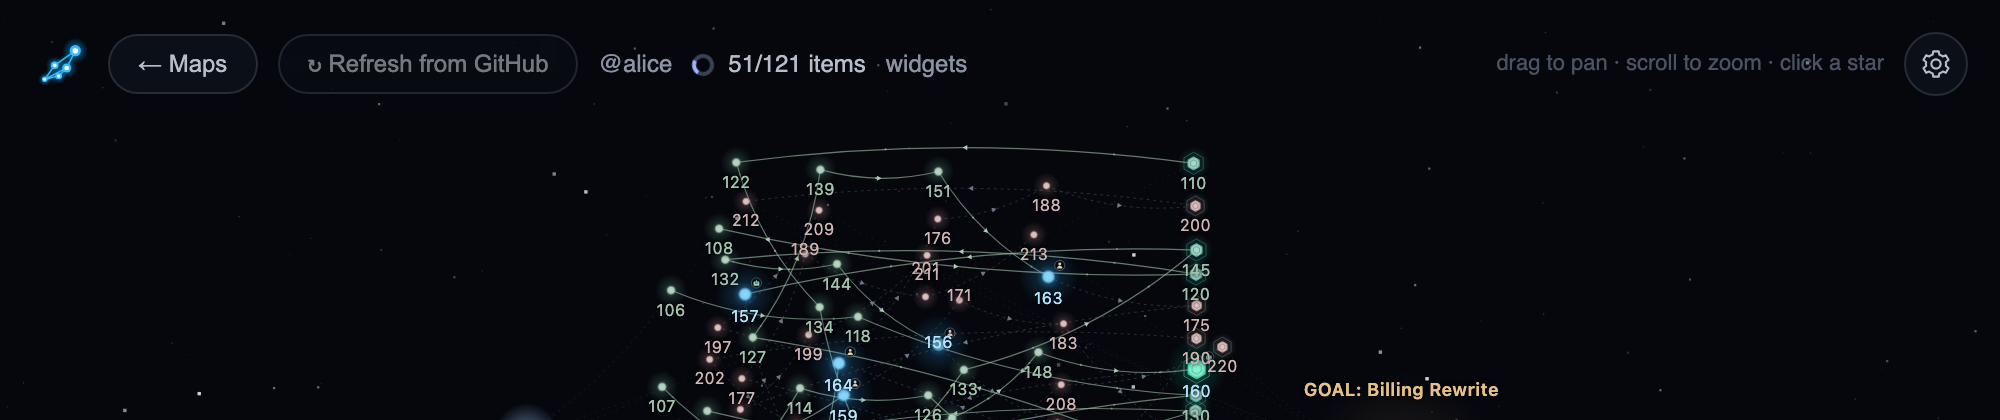
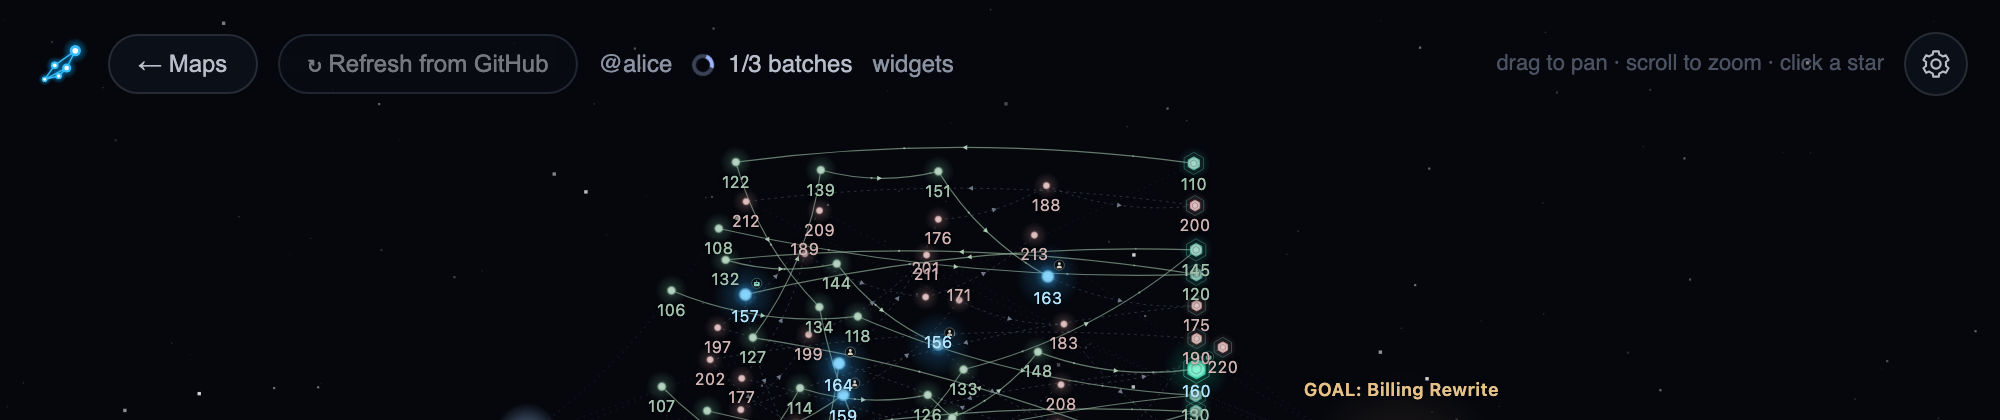
feat: count batches while the viewer pulls from GitHub
The spinner shows batch/batches; the finished message still counts items. The CLI is unchanged.

diff --git a/cmd/wayfinder-maps/web/js/screens.js b/cmd/wayfinder-maps/web/js/screens.js
@@ -98,7 +98,7 @@ export function pullFromGithub() {
   var failed = false, finished = false, total = 0;
   btn.disabled = true; setPullStat("run", progressText(0, 0));
   var onEvent = function(ev) {
-    if (ev.event === "progress") { total = ev.data.total; if (live()) setPullStat("run", progressText(ev.data.done, ev.data.total)); }
+    if (ev.event === "progress") { total = ev.data.total; if (live()) setPullStat("run", progressText(ev.data.batch, ev.data.batches)); }
     else if (ev.event === "error") { failed = true; if (live()) setPullStat("err", errText(ev.data.message)); }
     else if (ev.event === "done") finished = true;
   };

diff --git a/cmd/wayfinder-maps/web/js/ghpicker.js b/cmd/wayfinder-maps/web/js/ghpicker.js
@@ -155,7 +155,7 @@ function pull(m, ids) {
   return fetch(url, {method: "POST", headers: H.headers}).then(function(r) {
     if (!r.ok) return r.text().then(function(t) { throw new Error(t.trim()); });
     return readEvents(r, function(ev) {
-      if (ev.event === "progress") setStat("run", progressText(ev.data.done, ev.data.total));
+      if (ev.event === "progress") setStat("run", progressText(ev.data.batch, ev.data.batches));
       else if (ev.event === "error") { failed = true; setStat("err", (ev.data.message || "Pull failed")); }
       else if (ev.event === "done") path = ev.data.path;
     });

diff --git a/cmd/wayfinder-maps/web/js/sse.js b/cmd/wayfinder-maps/web/js/sse.js
@@ -14,9 +14,9 @@ export function parseSSE(buf) {
   return {events: events, rest: rest};
 }
 
-// progressText renders "N/M items"; a zero total means not known yet.
-export function progressText(done, total) {
-  return total > 0 ? done + "/" + total + " items" : "starting…";
+// progressText renders "N/M batches"; a zero total means not known yet.
+export function progressText(batch, batches) {
+  return batches > 0 ? batch + "/" + batches + " batches" : "starting…";
 }
 
 // readEvents pumps a fetch Response body through parseSSE, calling onEvent per

diff --git a/internal/ghpull/ghpull.go b/internal/ghpull/ghpull.go
@@ -71,6 +71,15 @@ func userErr(format string, a ...any) error {
 	return &Error{Code: 2, Msg: fmt.Sprintf(format, a...)}
 }
 
+// Step is how far a pull has come, in mirrored items and fetched batches. Both
+// totals move: they are 1 until the first batch is in.
+type Step struct {
+	Done    int `json:"done"`
+	Total   int `json:"total"`
+	Batch   int `json:"batch"`
+	Batches int `json:"batches"`
+}
+
 // Options selects what to pull. With Refresh, only Out is read and the rest
 // comes from <Out>/.source.json.
 type Options struct {
@@ -81,9 +90,8 @@ type Options struct {
 	// Account pulls as this gh account and records it in .source.json. Empty
 	// keeps the recorded account, then $WAYFINDER_GH_ACCOUNT, then the active one.
 	Account string
-	// Progress, if set, gets (done, total) items once per batch. The total
-	// moves: it is 1 until the first batch is in.
-	Progress func(done, total int)
+	// Progress, if set, is called at the start and once per batch.
+	Progress func(Step)
 }
 
 // Puller holds the injectable pieces: the gh runner, the environment, and the
@@ -310,7 +318,7 @@ func (p *Puller) pull(o Options, who *string) error {
 	var auth, account, token string
 	progress := o.Progress
 	if progress == nil {
-		progress = func(int, int) {}
+		progress = func(Step) {}
 	}
 	if o.Refresh {
 		src, ok := ReadSource(out)
@@ -356,7 +364,7 @@ func (p *Puller) pull(o Options, who *string) error {
 		*who = fmt.Sprintf("gh account '%s'", account)
 	}
 
-	progress(0, 1)
+	progress(Step{Total: 1, Batches: 1})
 	m, err := p.fetchMap(token, repo, mapNum, "")
 	if err != nil {
 		return err
@@ -387,7 +395,7 @@ func (p *Puller) pull(o Options, who *string) error {
 	var rewrites []*regexp.Regexp
 	var rewriteTo []string
 	count := 0
-	for page := m; ; {
+	for page, batch := m, 1; ; batch++ {
 		for _, t := range page.SubIssues.Nodes {
 			if err := p.complete(token, repo, &t); err != nil {
 				return err
@@ -403,10 +411,11 @@ func (p *Puller) pull(o Options, who *string) error {
 		}
 		next := page.SubIssues.PageInfo
 		if !next.HasNextPage {
-			progress(count+1, count+1)
+			progress(Step{Done: count + 1, Total: count + 1, Batch: batch, Batches: batch})
 			break
 		}
-		progress(count+1, max(page.SubIssues.TotalCount, count+1)+1)
+		progress(Step{Done: count + 1, Total: max(page.SubIssues.TotalCount, count+1) + 1,
+			Batch: batch, Batches: max((page.SubIssues.TotalCount+ticketBatch-1)/ticketBatch, batch+1)})
 		if page, err = p.fetchMap(token, repo, mapNum, next.EndCursor); err != nil {
 			return err
 		}

diff --git a/cmd/wayfinder-maps/github.go b/cmd/wayfinder-maps/github.go
@@ -21,7 +21,7 @@ var (
 )
 
 // runOpen pulls a map into o.Out in-process, serialised with refresh pulls.
-var runOpen = func(o ghpull.Options, progress func(done, total int)) error {
+var runOpen = func(o ghpull.Options, progress func(ghpull.Step)) error {
 	pullMu.Lock()
 	defer pullMu.Unlock()
 	o.Progress = progress
@@ -104,9 +104,9 @@ func ghError(w http.ResponseWriter, err error, account string) {
 	http.Error(w, err.Error(), code)
 }
 
-// streamSSE runs fn and streams its progress as SSE: "progress" {done,total},
-// then "done" with the data or "error" {message}.
-func streamSSE(w http.ResponseWriter, fn func(progress func(done, total int)) (any, error)) {
+// streamSSE runs fn and streams its progress as SSE: "progress" with a
+// ghpull.Step, then "done" with the data or "error" {message}.
+func streamSSE(w http.ResponseWriter, fn func(progress func(ghpull.Step)) (any, error)) {
 	fl, _ := w.(http.Flusher)
 	w.Header().Set("Content-Type", "text/event-stream")
 	w.Header().Set("Cache-Control", "no-cache")
@@ -117,8 +117,8 @@ func streamSSE(w http.ResponseWriter, fn func(progress func(done, total int)) (a
 			fl.Flush()
 		}
 	}
-	send("progress", map[string]int{"done": 0, "total": 0})
-	data, err := fn(func(done, total int) { send("progress", map[string]int{"done": done, "total": total}) })
+	send("progress", ghpull.Step{})
+	data, err := fn(func(s ghpull.Step) { send("progress", s) })
 	if err != nil {
 		send("error", map[string]string{"message": err.Error()})
 		return
@@ -227,7 +227,7 @@ func registerGitHub(mux *http.ServeMux, writeJSON func(http.ResponseWriter, any)
 			return
 		}
 		out := ghpull.MirrorDir(cache, repo, q.Get("title"), num)
-		streamSSE(w, func(progress func(done, total int)) (any, error) {
+		streamSSE(w, func(progress func(ghpull.Step)) (any, error) {
 			if err := runOpen(ghpull.Options{Repo: repo, Map: num, Out: out, Account: q.Get("account")}, progress); err != nil {
 				return nil, err
 			}

diff --git a/internal/ghpull/paging_test.go b/internal/ghpull/paging_test.go
@@ -107,16 +107,38 @@ func TestPagedSubIssuesKeepOrder(t *testing.T) {
 }
 
 func TestProgressAdvancesOncePerBatch(t *testing.T) {
-	f := fixtures(t)
-	f.pageSubIssues(4, 4)
+	f := newFakeGH(t, "full")
+	f.dir = t.TempDir()
+	// 120 tickets, as GitHub pages them: 50, 50 and 20.
+	for i, size := range []int{50, 50, 20} {
+		nodes := make([]any, size)
+		for j := range nodes {
+			n := 101 + 50*i + j
+			nodes[j] = object{"id": fmt.Sprintf("I_%d", n), "number": n, "title": "T", "state": "OPEN"}
+		}
+		name := "map__10.json"
+		if i > 0 {
+			name = fmt.Sprintf("map__10__c%d.json", i)
+		}
+		f.save(name, object{"data": object{"repository": object{"issue": object{"title": "Big", "subIssues": object{
+			"totalCount": 120, "nodes": nodes,
+			"pageInfo": object{"hasNextPage": i < 2, "endCursor": fmt.Sprintf("c%d", i+1)},
+		}}}}})
+	}
 	p, _, _ := f.puller(nil)
-	var got [][2]int
+	var got []Step
 	err := p.Pull(Options{Repo: "acme/widgets", Map: 10, Out: filepath.Join(t.TempDir(), "out"),
-		Progress: func(d, n int) { got = append(got, [2]int{d, n}) }})
+		Progress: func(s Step) { got = append(got, s) }})
 	if err != nil {
 		t.Fatal(err)
 	}
-	if want := [][2]int{{0, 1}, {5, 11}, {9, 11}, {11, 11}}; !slices.Equal(got, want) {
+	want := []Step{
+		{Done: 0, Total: 1, Batch: 0, Batches: 1},
+		{Done: 51, Total: 121, Batch: 1, Batches: 3},
+		{Done: 101, Total: 121, Batch: 2, Batches: 3},
+		{Done: 121, Total: 121, Batch: 3, Batches: 3},
+	}
+	if !slices.Equal(got, want) {
 		t.Errorf("progress = %v, want %v", got, want)
 	}
 }

diff --git a/cmd/wayfinder-maps/server_test.go b/cmd/wayfinder-maps/server_test.go
@@ -12,6 +12,8 @@ import (
 	"testing"
 
 	"github.com/RamsesKools/wayfinder-maps/internal/wayfinder"
+
+	"github.com/RamsesKools/wayfinder-maps/internal/ghpull"
 )
 
 func graphTicket(num int, typ wayfinder.Type, answered bool, pr string, afk bool, blocked ...int) *wayfinder.Ticket {
@@ -142,10 +144,10 @@ func TestPullEndpoint(t *testing.T) {
 	var pulled []string
 	old := runPull
 	var fail error
-	runPull = func(e string, progress func(done, total int)) error {
+	runPull = func(e string, progress func(ghpull.Step)) error {
 		pulled = append(pulled, e)
-		progress(1, 3)
-		progress(2, 4)
+		progress(ghpull.Step{Done: 1, Total: 3, Batches: 1})
+		progress(ghpull.Step{Done: 2, Total: 4, Batch: 1, Batches: 2})
 		return fail
 	}
 	defer func() { runPull = old }()
@@ -171,7 +173,7 @@ func TestPullEndpoint(t *testing.T) {
 	if c := post(dir, true); c != http.StatusOK || len(pulled) != 1 || pulled[0] != dir {
 		t.Errorf("pull: %d %v", c, pulled)
 	}
-	for _, want := range []string{"event: progress\ndata: {\"done\":2,\"total\":4}\n\n", "event: done\n"} {
+	for _, want := range []string{"event: progress\ndata: {\"done\":2,\"total\":4,\"batch\":1,\"batches\":2}\n\n", "event: done\n"} {
 		if !strings.Contains(body, want) {
 			t.Errorf("stream missing %q: %q", want, body)
 		}

diff --git a/cmd/wayfinder-maps/github_test.go b/cmd/wayfinder-maps/github_test.go
@@ -150,9 +150,9 @@ func TestOpeningFromGitHubPullsIntoTheCacheRemembersTheRepoAndStreamsTheResult(t
 	cache := isolateGitHub(t, func(string, ...string) ([]byte, error) { return nil, errBoom })
 	var got ghpull.Options
 	oldOpen := runOpen
-	runOpen = func(o ghpull.Options, progress func(done, total int)) error {
+	runOpen = func(o ghpull.Options, progress func(ghpull.Step)) error {
 		got = o
-		progress(1, 2)
+		progress(ghpull.Step{Done: 1, Total: 2, Batches: 1})
 		fakeMirror(t, cache, "acme/widgets", "Live map", 2)
 		return nil
 	}
@@ -176,7 +176,7 @@ func TestOpeningFromGitHubPullsIntoTheCacheRemembersTheRepoAndStreamsTheResult(t
 func TestOpeningFromGitHubReportsAFailedPullAsAnErrorEventAndRemembersNothing(t *testing.T) {
 	isolateGitHub(t, func(string, ...string) ([]byte, error) { return nil, errBoom })
 	oldOpen := runOpen
-	runOpen = func(ghpull.Options, func(int, int)) error { return errBoom }
+	runOpen = func(ghpull.Options, func(ghpull.Step)) error { return errBoom }
 	t.Cleanup(func() { runOpen = oldOpen })
 
 	rec := call(newServer(""), "POST", "/api/github/open?repo=acme/widgets&map=2&title=x", true)

diff --git a/cmd/wayfinder-maps/server.go b/cmd/wayfinder-maps/server.go
@@ -11,6 +11,7 @@ import (
 	"path/filepath"
 	"strings"
 
+	"github.com/RamsesKools/wayfinder-maps/internal/ghpull"
 	"github.com/RamsesKools/wayfinder-maps/internal/wayfinder"
 )
 
@@ -189,7 +190,7 @@ func newServer(initial string) http.Handler {
 	})
 
 	// Re-pull a GitHub-backed effort into .plan/ and stream progress as SSE
-	// ("progress" {done,total}, then "done" or "error" {message}). POST with a
+	// ("progress" {done,total,batch,batches}, then "done" or "error" {message}). POST with a
 	// custom header (forces a CORS preflight), since it pulls from GitHub and
 	// writes files; the viewer then refreshes the map.
 	mux.HandleFunc("/api/pull", func(w http.ResponseWriter, r *http.Request) {
@@ -202,7 +203,7 @@ func newServer(initial string) http.Handler {
 			http.Error(w, "not a GitHub-backed map (no .source.json); run wayfinder-maps pull once", http.StatusBadRequest)
 			return
 		}
-		streamSSE(w, func(progress func(done, total int)) (any, error) {
+		streamSSE(w, func(progress func(ghpull.Step)) (any, error) {
 			return map[string]string{}, runPull(effort, progress)
 		})
 	})

diff --git a/cmd/wayfinder-maps/pull.go b/cmd/wayfinder-maps/pull.go
@@ -27,8 +27,8 @@ func newPuller(gh ghpull.Runner, stdout, stderr io.Writer) *ghpull.Puller {
 }
 
 // runPull re-pulls the effort from GitHub in-process, reusing the gh account
-// recorded in .source.json. progress gets (done, total) as the pull advances.
-var runPull = func(effort string, progress func(done, total int)) error {
+// recorded in .source.json. progress is called as the pull advances.
+var runPull = func(effort string, progress func(ghpull.Step)) error {
 	pullMu.Lock()
 	defer pullMu.Unlock()
 	return newPuller(ghpull.GH, io.Discard, io.Discard).Pull(ghpull.Options{Out: effort, Refresh: true, Progress: progress})
@@ -86,7 +86,7 @@ func pullCmd(args []string, gh ghpull.Runner, stdout, stderr io.Writer) int {
 	if !quiet {
 		pr := ghpull.NewProgress(stdout, ghpull.IsTerminal(stdout))
 		defer pr.Close()
-		o.Progress = pr.Update
+		o.Progress = func(s ghpull.Step) { pr.Update(s.Done, s.Total) }
 		if ghpull.IsTerminal(stdout) {
 			out = pr
 		}

diff --git a/internal/ghpull/ghpull_test.go b/internal/ghpull/ghpull_test.go
@@ -414,13 +414,13 @@ func TestAccountFlagEnvAndStorage(t *testing.T) {
 func TestProgressSingleBatch(t *testing.T) {
 	f := newFakeGH(t, "full")
 	p, _, _ := f.puller(nil)
-	var got [][2]int
+	var got []Step
 	out := filepath.Join(t.TempDir(), "out")
-	err := p.Pull(Options{Repo: "acme/widgets", Map: 10, Out: out, Progress: func(d, n int) { got = append(got, [2]int{d, n}) }})
+	err := p.Pull(Options{Repo: "acme/widgets", Map: 10, Out: out, Progress: func(s Step) { got = append(got, s) }})
 	if err != nil {
 		t.Fatal(err)
 	}
-	if want := [][2]int{{0, 1}, {11, 11}}; !slices.Equal(got, want) {
+	if want := []Step{{Done: 0, Total: 1, Batch: 0, Batches: 1}, {Done: 11, Total: 11, Batch: 1, Batches: 1}}; !slices.Equal(got, want) {
 		t.Errorf("progress = %v, want %v", got, want)
 	}
 }

diff --git a/docs/features/open-from-github.md b/docs/features/open-from-github.md
@@ -10,11 +10,11 @@ It needs the [GitHub CLI](https://cli.github.com), logged in.
    Each map shows its percent completed, and closed maps are dimmed.
    The scan reads the 100 most recently updated issues of the repo.
 4. `Open from GitHub` pulls the map with the usual progress into `<user cache dir>/wayfinder-maps/github/<owner>-<repo>/<slug>`, then opens it and lists it under [Recent](recent-maps.md).
-   A map already in the cache opens at once instead, and the viewer starts the same refresh as the `Refresh from GitHub` button, so you see the spinner and `N/M items` in the top bar while it updates.
+   A map already in the cache opens at once instead, and the viewer starts the same refresh as the `Refresh from GitHub` button, so you see the spinner and `N/M batches` in the top bar while it updates.
 
 ![The repo box with its list of recently active repos open, and a chevron on the right of the box](../images/github-open-repos.png){ width="420" }
 
-![A map opened from the cache straight away, with the top bar showing the Refresh from GitHub button, the gh account and a spinner at 51/121 items while the refresh runs](../images/github-open-cached-refresh.png){ width="720" }
+![A map opened from the cache straight away, with the top bar showing the Refresh from GitHub button, the gh account and a spinner at 1/3 batches while the refresh runs](../images/github-open-cached-refresh.png){ width="720" }
 
 ![The splash with the gh account, a pasted repo URL and the map dropdown showing three maps with their percent completed, the closed one dimmed](../images/github-open-pick-map.png){ width="420" }
 
